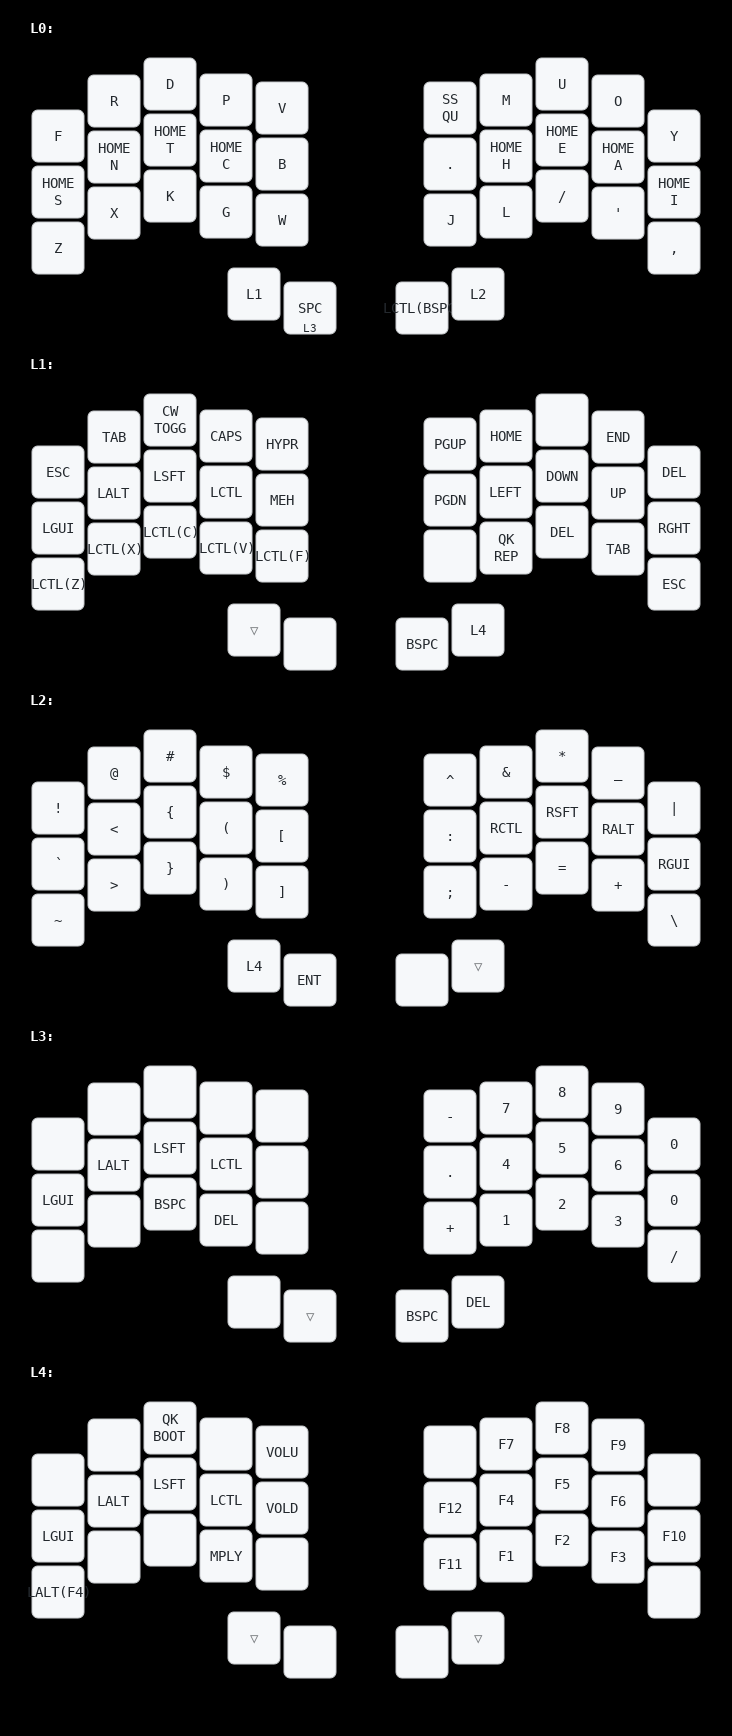
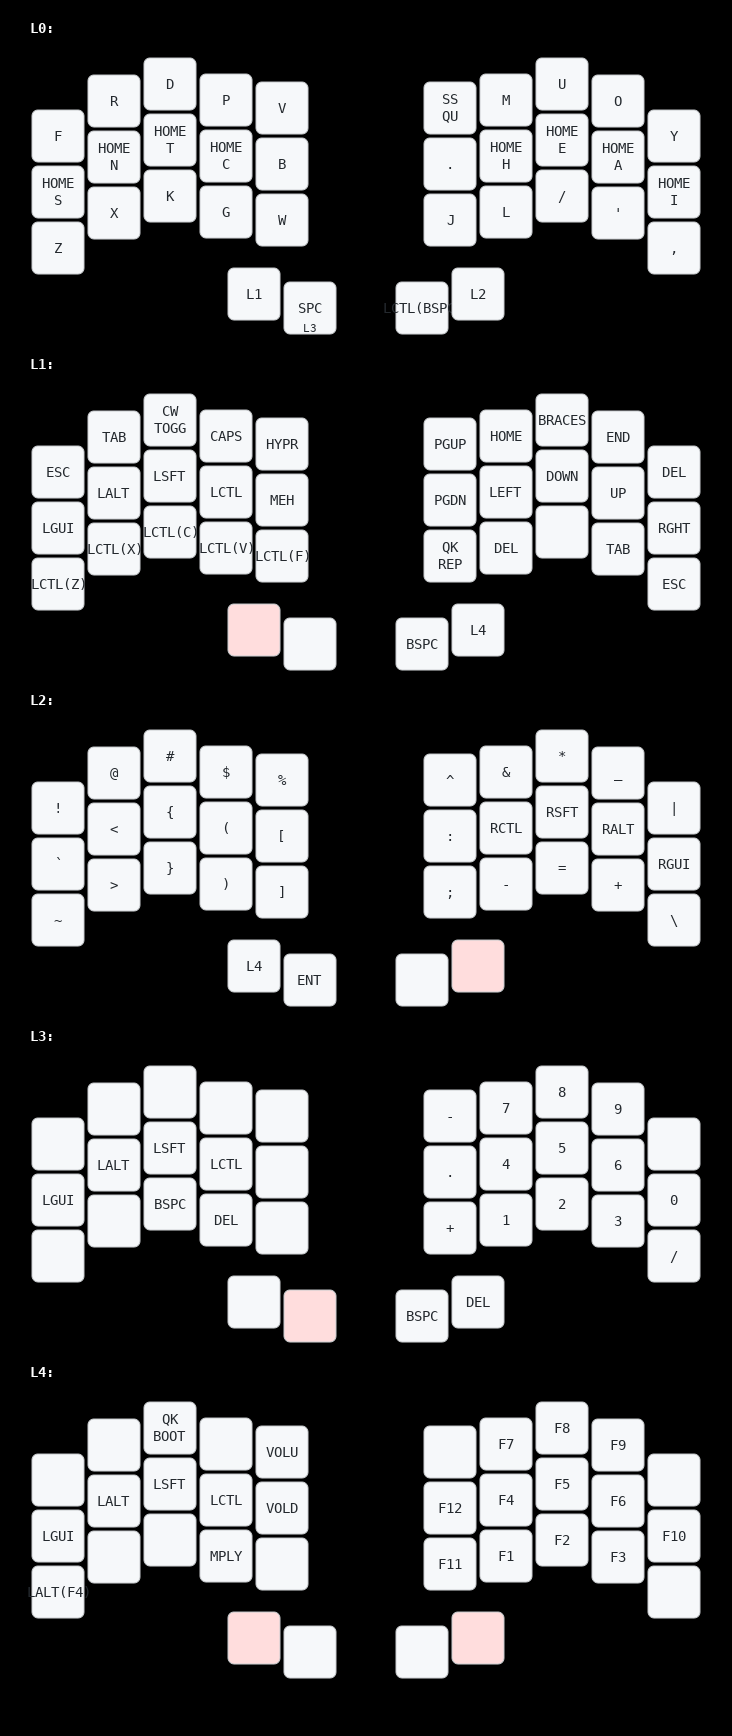
moved delete key, added a brace key, that types two wbraces and puts the cursor in the middle

diff --git a/keymap.c b/keymap.c
@@ -41,6 +41,7 @@ uint16_t get_tapping_term(uint16_t keycode, keyrecord_t* record) {
 enum custom_keycodes {
     // EMAIL = SAFE_RANGE,
     SS_QU = SAFE_RANGE,
+    BRACES,
 };
 
 // * ---------------
@@ -89,6 +90,10 @@ bool process_record_user(uint16_t keycode, keyrecord_t* record) {
         return false;
     }
 
+    // ! Might be in wrong place
+    const uint8_t mods         = get_mods();
+    const uint8_t oneshot_mods = get_oneshot_mods();
+
     switch (keycode) {
             // * Macros
             // case EMAIL:
@@ -102,6 +107,22 @@ bool process_record_user(uint16_t keycode, keyrecord_t* record) {
                 SEND_STRING("qu");
             }
             break;
+
+        case BRACES: // Types [], {}, or <> and puts cursor between braces.
+            if (record->event.pressed) {
+                clear_oneshot_mods(); // Temporarily disable mods.
+                unregister_mods(MOD_MASK_CSAG);
+                if ((mods | oneshot_mods) & MOD_MASK_SHIFT) {
+                    SEND_STRING("{}");
+                } else if ((mods | oneshot_mods) & MOD_MASK_CTRL) {
+                    SEND_STRING("<>");
+                } else {
+                    SEND_STRING("()");
+                }
+                tap_code(KC_LEFT);   // Move cursor between braces.
+                register_mods(mods); // Restore mods.
+            }
+            return false;
     }
 
     // ! CURRENTLY UNUSED
@@ -145,9 +166,9 @@ const uint16_t PROGMEM keymaps[][MATRIX_ROWS][MATRIX_COLS] = {
 
     // Nav/Ext
     [1] = LAYOUT_split_3x5_2(
-        KC_ESC, KC_TAB, CW_TOGG, KC_CAPS, KC_HYPR,                          KC_PGUP, KC_HOME, KC_NO, KC_END, KC_DEL, 
+        KC_ESC, KC_TAB, CW_TOGG, KC_CAPS, KC_HYPR,                          KC_PGUP, KC_HOME, BRACES, KC_END, KC_DEL, 
         KC_LGUI, KC_LALT, KC_LSFT, KC_LCTL, KC_MEH,                         KC_PGDN, KC_LEFT, KC_DOWN, KC_UP, KC_RGHT, 
-        LCTL(KC_Z), LCTL(KC_X), LCTL(KC_C), LCTL(KC_V), LCTL(KC_F),         KC_NO, QK_REP, KC_DEL, KC_TAB, KC_ESC, 
+        LCTL(KC_Z), LCTL(KC_X), LCTL(KC_C), LCTL(KC_V), LCTL(KC_F),         QK_REP, KC_DEL, KC_NO, KC_TAB, KC_ESC, 
         KC_TRNS, KC_NO,                                                     KC_BSPC, MO(4)),
 
     // Symbol
@@ -159,7 +180,7 @@ const uint16_t PROGMEM keymaps[][MATRIX_ROWS][MATRIX_COLS] = {
 
     // Numpad
     [3] = LAYOUT_split_3x5_2(
-        KC_NO, KC_NO, KC_NO, KC_NO, KC_NO,                                  KC_MINS, KC_7, KC_8, KC_9, KC_0, 
+        KC_NO, KC_NO, KC_NO, KC_NO, KC_NO,                                  KC_MINS, KC_7, KC_8, KC_9, KC_NO, 
         KC_LGUI, KC_LALT, KC_LSFT, KC_LCTL, KC_NO,                          KC_DOT, KC_4, KC_5, KC_6, KC_0, 
         KC_NO, KC_NO, KC_BSPC, KC_DEL, KC_NO,                               KC_PLUS, KC_1, KC_2, KC_3, KC_SLSH, 
         KC_NO, KC_TRNS,                                                     KC_BSPC, KC_DEL),
